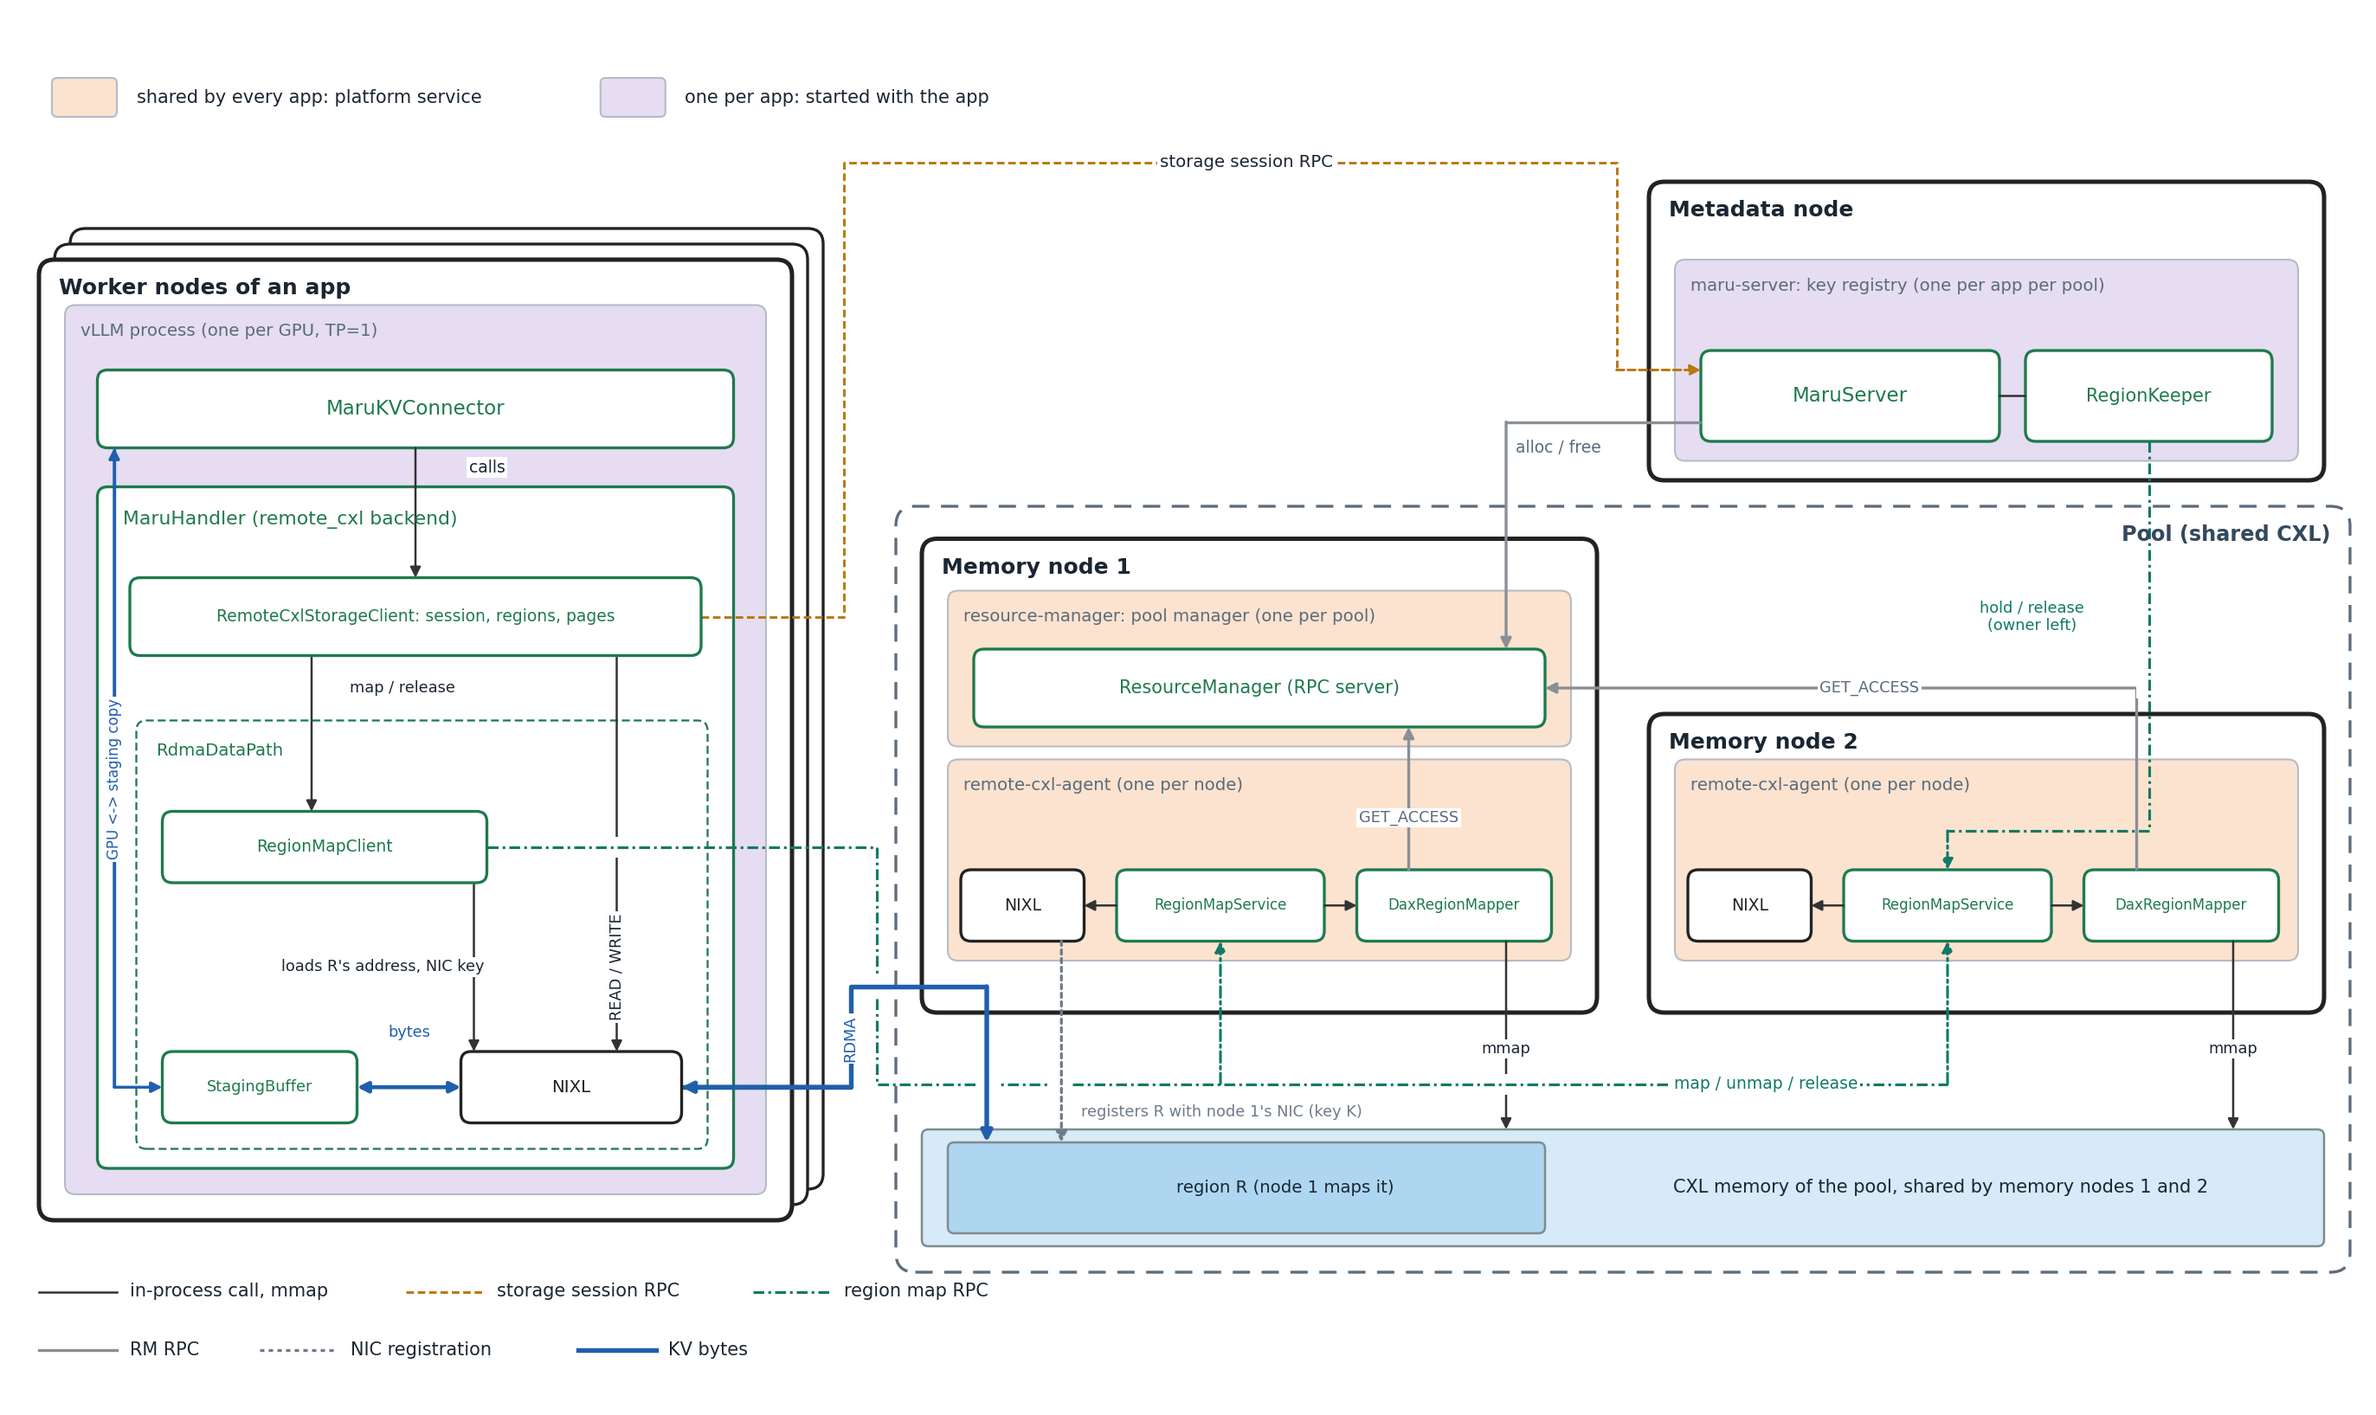
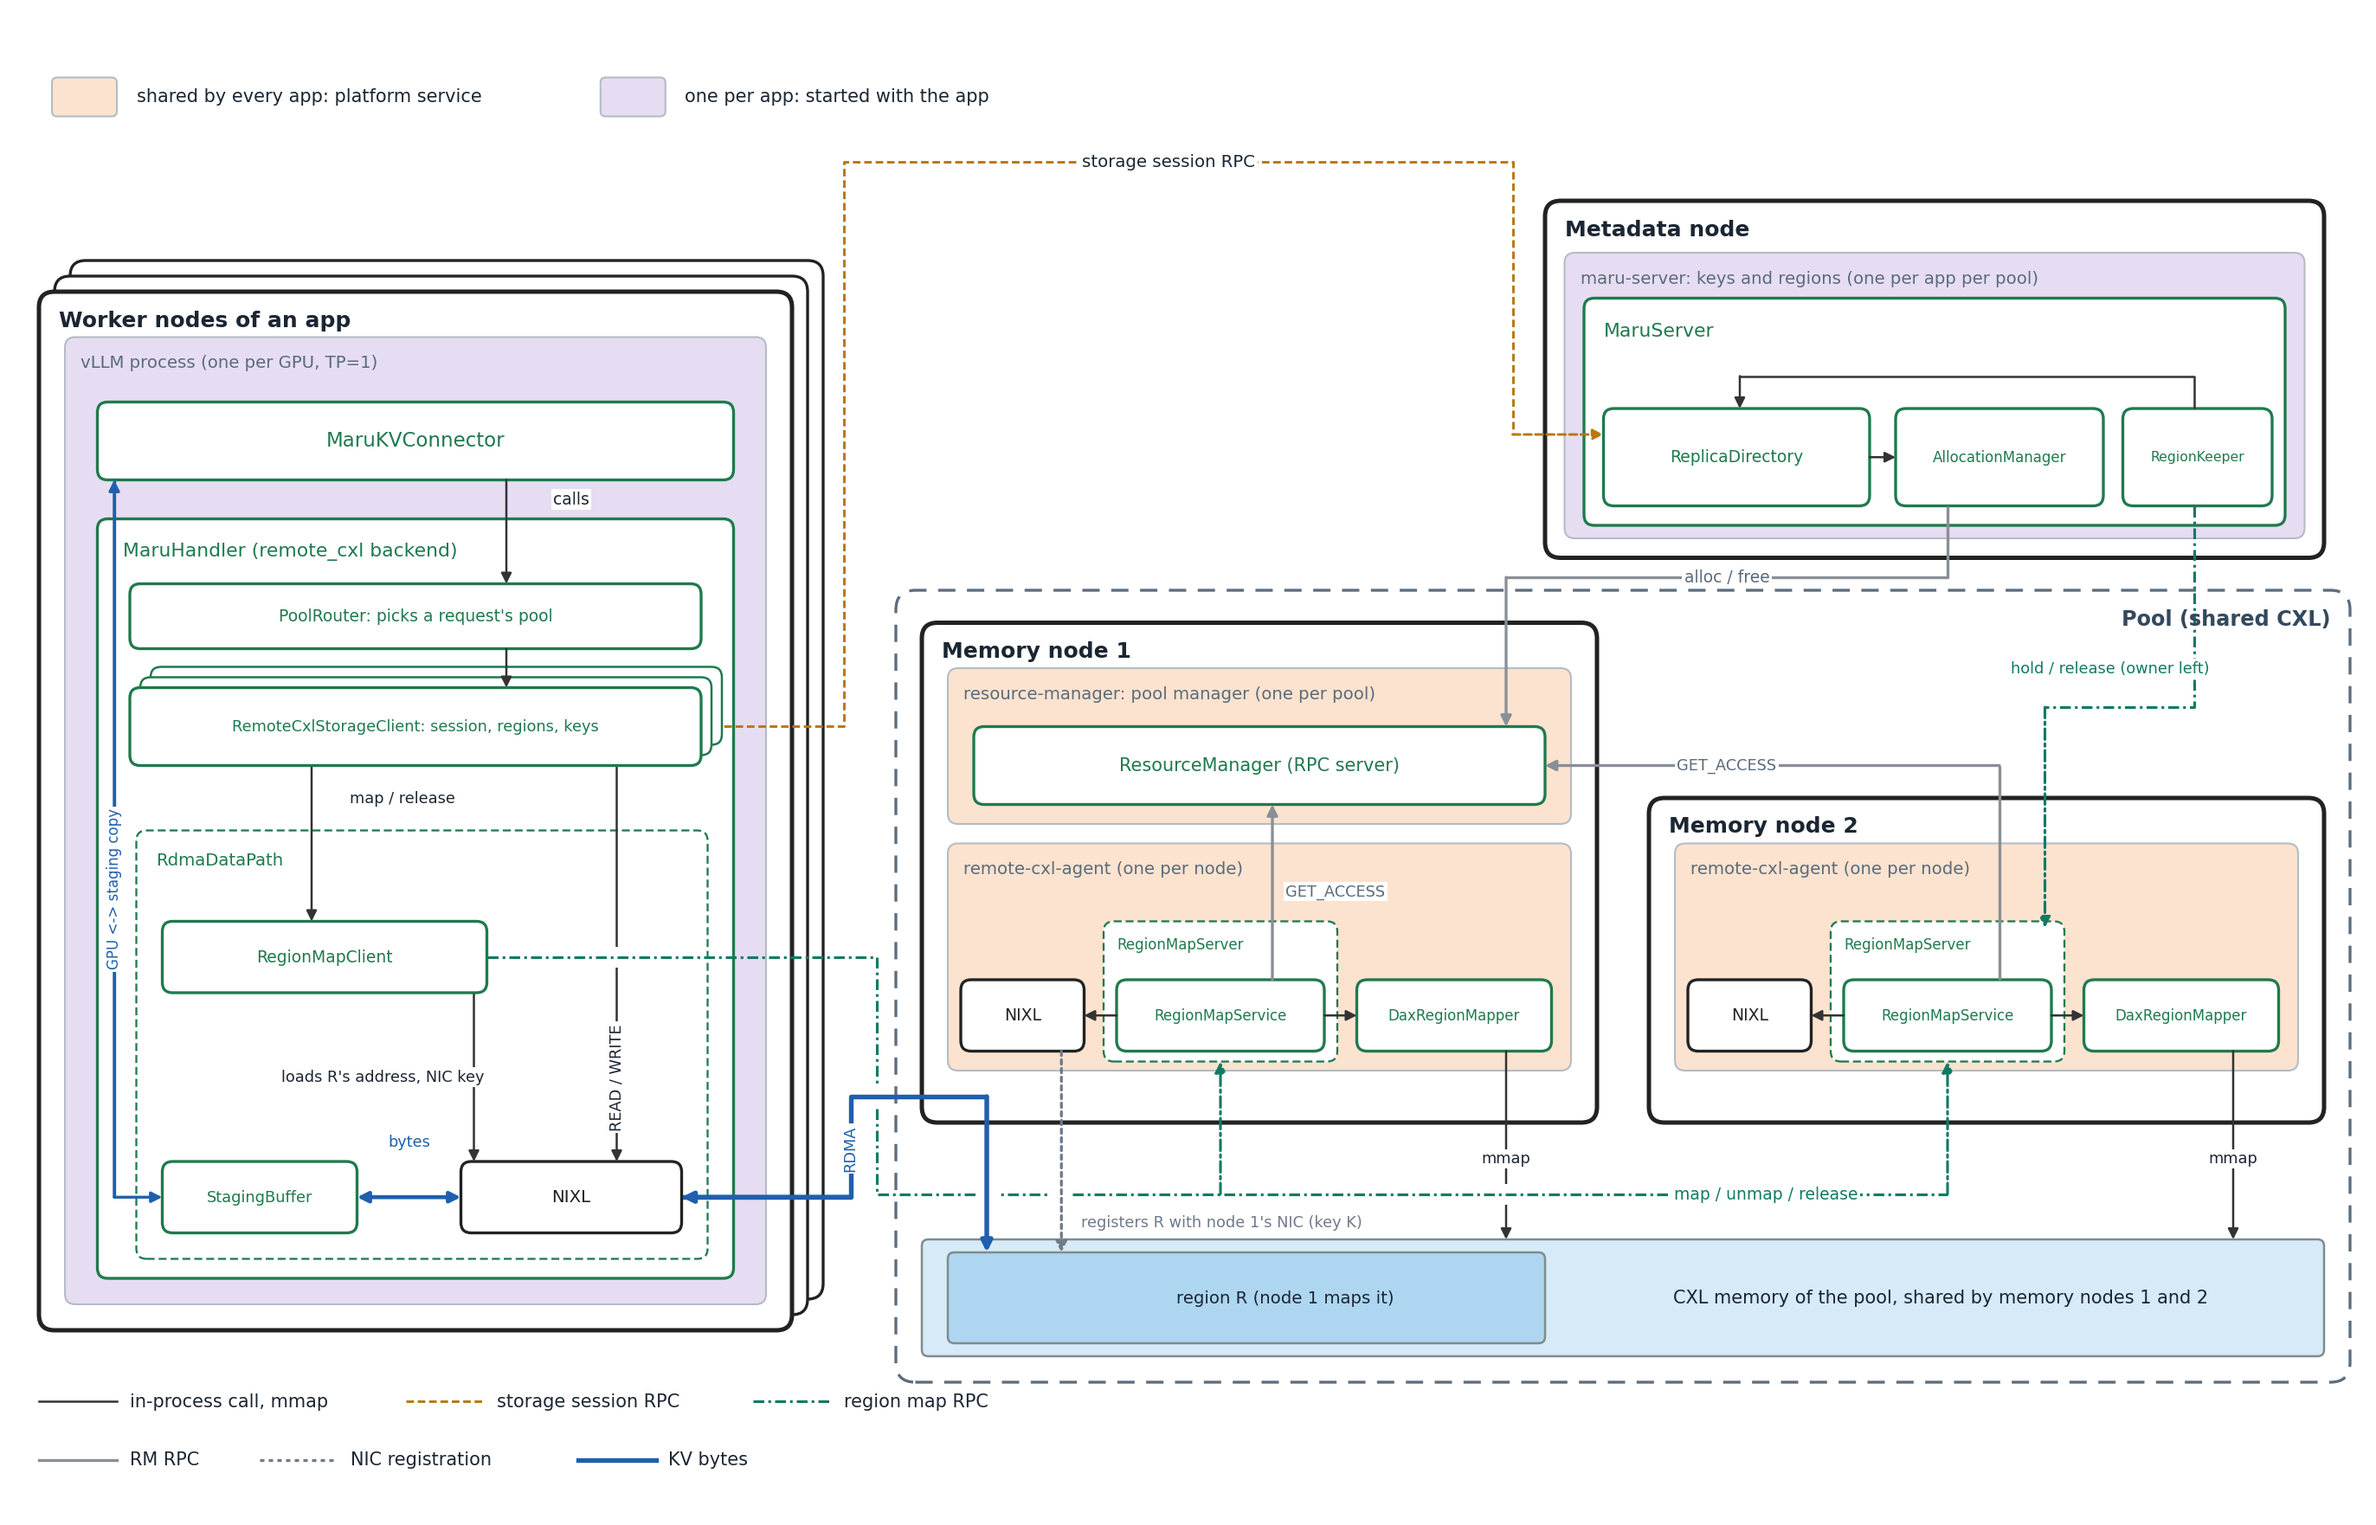
docs(remote_cxl): draw the component figure as the code is
The figure now shows PoolRouter and one RemoteCxlStorageClient per pool in
the Handler, ReplicaDirectory, AllocationManager and RegionKeeper in
MaruServer, and RegionMapServer around RegionMapService in the remote CXL
agent; RegionMapService (not DaxRegionMapper) asks the resource manager for
GET_ACCESS.

diff --git a/docs/source/integration/vllm.md b/docs/source/integration/vllm.md
@@ -243,7 +243,7 @@ maru-server and maru-server gives them to the worker, one region when its
 storage session opens and one more each time its regions are full. Only the
 step that maps a region moves, from the Handler to the memory node.
 
-![Components of the remote_cxl backend: worker nodes, the metadata node and the memory nodes of a shared CXL pool](../image/remote_cxl_sw_structure.png)
+![Components of the remote_cxl backend. Worker nodes: MaruKVConnector calls MaruHandler, whose PoolRouter picks a request's pool and hands it to that pool's RemoteCxlStorageClient; all clients share one RdmaDataPath (RegionMapClient, StagingBuffer, NIXL). Metadata node: MaruServer with ReplicaDirectory (storage sessions), AllocationManager (resource manager requests) and RegionKeeper. Memory nodes of a shared CXL pool: the resource manager, and on every node a remote CXL agent whose RegionMapServer takes connections for RegionMapService, which checks a handle with the resource manager, maps the region with DaxRegionMapper and registers it with NIXL](../image/remote_cxl_sw_structure.png)
 
 Each memory
 node runs a remote CXL agent (`maru-remote-cxl-agent`), a service shared by every app:

diff --git a/docs/source/design_doc/maru_handler.md b/docs/source/design_doc/maru_handler.md
@@ -235,7 +235,7 @@ more (`expand`) whenever all of them are full. The remote CXL agent on a region'
 memory node maps the region and registers it with that node's NIC; the Handler
 reaches the region with one-sided RDMA.
 
-![Components of the remote_cxl backend: worker nodes, the metadata node and the memory nodes of a shared CXL pool](../image/remote_cxl_sw_structure.png)
+![Components of the remote_cxl backend. Worker nodes: MaruKVConnector calls MaruHandler, whose PoolRouter picks a request's pool and hands it to that pool's RemoteCxlStorageClient; all clients share one RdmaDataPath (RegionMapClient, StagingBuffer, NIXL). Metadata node: MaruServer with ReplicaDirectory (storage sessions), AllocationManager (resource manager requests) and RegionKeeper. Memory nodes of a shared CXL pool: the resource manager, and on every node a remote CXL agent whose RegionMapServer takes connections for RegionMapService, which checks a handle with the resource manager, maps the region with DaxRegionMapper and registers it with NIXL](../image/remote_cxl_sw_structure.png)
 
 | Component | Role |
 |-----------|------|
